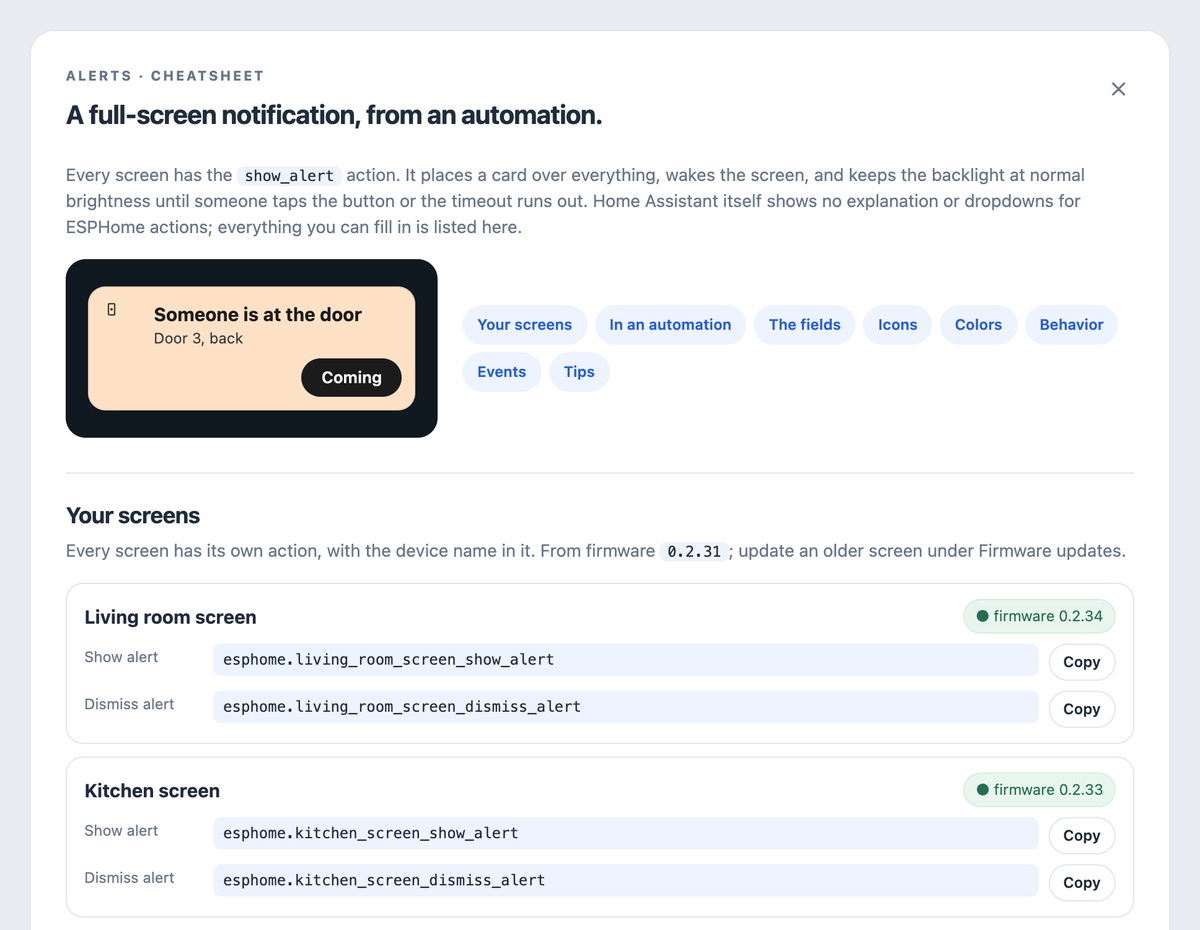
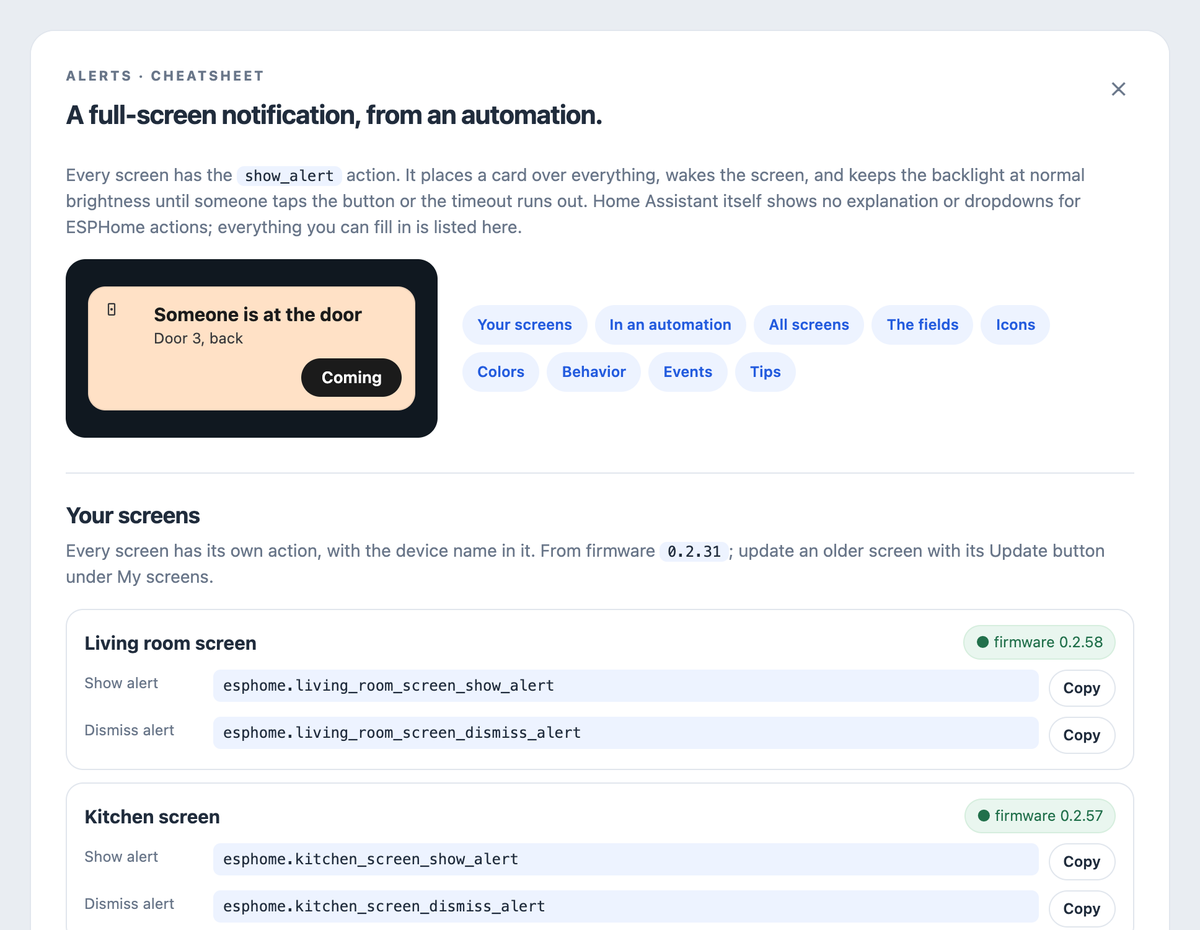
Show the settings on the screen, tap actions and Override YAML in the README
The README pictures now match the released screens and ESP Screens: the light pages had the sliders
and clock from before 0.2.43, the editor showed firmware 0.2.34, and the vacuum and climate cards
carried Dutch names. New pictures show the settings page on the screen with Dark mode, the Screen
settings cards, Perform action in the tile settings and Override YAML; the full reference gets the
same and short notes on tap actions, Home Assistant's words and icons, and Override YAML.

Rendered from the host firmware and the real add-on on the demo home, like the earlier pictures.

diff --git a/README_EXTENDED.md b/README_EXTENDED.md
@@ -49,6 +49,15 @@ on the screen itself, and how updates work.
   − / + or a slider (numbers), previous/next (select), start/pause and
   cancel (timer), and a single button for scenes, scripts, and buttons. Configurable
   per tile; **None** keeps the regular card.
+- **On tap** (app 0.2.67 / firmware 0.2.58): **Automatic**, **Open control**, **View only**,
+  **On / off** for everything Home Assistant can toggle, covers included, or **Perform action**:
+  any action Home Assistant has for the tile's entity, under Home Assistant's own names and with
+  its fields, such as Set cover position at 50 %. Holding the tile still opens its card, and the
+  tile settings only offer what Home Assistant supports for that entity.
+- **Home Assistant's words and icons** (app 0.2.67 / firmware 0.2.58): a blind says Open or
+  Closing, a speaker Playing and a door Open or Closed, a sensor shows the decimals Home Assistant
+  shows, and a tile without an icon of its own gets the one Home Assistant shows, following its
+  state. A light or binary sensor that is off turns grey (firmware 0.2.53+).
 - **Weather card** with current weather, the coming hours and days including chance of
   rain or millimeters; **climate card** with an on/off button, mode, fan, and swing settings.
   The target temperature sits big between − / + keys with one row of mode keys below; the
@@ -92,6 +101,9 @@ on the screen itself, and how updates work.
   orientation and its own calibration.
 - **Inspector:** check entities, status, and configuration in ESP Screens.
   Action feedback shows that a command is on its way.
+- **Override YAML per screen** (app 0.2.61): your own ESPHome YAML for one screen, such as another
+  display controller, kept through updates. See
+  [Updates and keeping your settings](#updates-and-keeping-your-settings).
 
 <p align="center">
   <img src="docs/images/guition-tiles-controls.png" width="32%" alt="Double-width tiles with direct control: heating mode keys with heat selected, previous, pause and next for the Sonos, and a ceiling fan's speed slider">
@@ -292,10 +304,10 @@ value. Click **Save & send to screen** to apply the changes.
 After the first supporting firmware update, this requires no new flash.
 
 <p align="center">
-  <img src="docs/images/editor-tile-settings.png" width="36%" alt="Tile settings: name, icon, display, width, direct control, tap action and pastel background">
-  <img src="docs/images/guition-controls.png" width="60%" alt="The result on the screen: a double-width Heating tile with temperature − and +">
+  <img src="docs/images/editor-tile-settings.png" width="39%" alt="Tile settings of the curtains: double-width with open, stop and close on the tile, and on tap Perform action with Set cover position at 50 %">
+  <img src="docs/images/guition-page-3.png" width="57%" alt="The result on the screen: the double-width Curtains tile with open, stop and close, above a kitchen timer, a scene and the sun path">
 </p>
-<p align="center"><sub>The settings of the Heating tile, and that tile on the screen: double-width with temperature − / +.</sub></p>
+<p align="center"><sub>The settings of the Curtains tile, and that tile on the screen: open, stop and close on the tile, and a tap on its name sets the curtains to 50 %.</sub></p>
 
 A color is a fixed choice for that tile: it stays red, for example,
 even when you run the all-off script. The entity status and action feedback
@@ -351,10 +363,20 @@ Home Assistant, `esphome.<screen>_open_settings` opens it too (`page` 0 menu, 1 
 | Screen | 12/24-hour clock, back to page 1 by itself and after how long, also on standby, swiping between pages, rotation (boards that turn) |
 | This screen | Name, IP address, firmware version, Home Assistant connected, Restart |
 
+<p align="center">
+  <img src="docs/images/guition-settings-menu.png" width="32%" alt="The settings menu on the Guition: Brightness, Night, Screen and This screen">
+  <img src="docs/images/guition-settings.png" width="32%" alt="The Brightness page: the brightness with minus and plus, Dark mode off, Auto standby on, standby after 10 minutes and the standby brightness">
+  <img src="docs/images/guition-settings-night.png" width="32%" alt="The Night page: Night mode on, starting at 22:00 and ending at 07:00, and the night brightness">
+</p>
+
 Tap a toggle to flip it, `-` and `+` to change a number or a time — hold them and a time walks
 whole hours — and tap a chip like the clock to cycle it. Every change is saved on the screen,
 takes effect at once, and appears in ESP Screens within a second, so both sides always show
 the same value. The **Screen settings** cards in ESP Screens have the same rows.
+
+<p align="center">
+  <img src="docs/images/editor-screen-settings.png" width="98%" alt="Screen settings in ESP Screens: Brightness with Dark mode and standby, Night with its hours and brightness, and Screen with the clock, back to page 1, swiping and the rotation">
+</p>
 
 **In Home Assistant** (firmware 0.2.49+), every setting is an entity on the screen's device, under
 *Configuration*: `number.<screen>_normal_brightness`, `switch.<screen>_night_mode`,
@@ -371,6 +393,7 @@ and setting a value the screen already has costs nothing. The full list is in
 | Screen settings | Change them in ESP Screens (they apply at once), on the screen, or on their entities in Home Assistant |
 | New version of the management page | Update ESP Screen Manager in the HA App store |
 | New feature on the physical screen | The **Update** button on the screen (badge *Update x.y.z*), or **Update automatically every night** under Settings |
+| Your own YAML for one screen | **Override YAML** in ESP Screens; kept through updates (app 0.2.61) |
 
 Every app version belongs to one firmware version. After an app update, the list
 shows per screen whether newer firmware is available. **Update** builds that screen's own profile
@@ -385,6 +408,17 @@ Tile layouts and options live in the app's persistent data. CYD calibration and
 screen preferences stay stored on the device. Updates don't replace this
 user data. Do still make normal Home Assistant backups and keep your
 device profiles; removing an app or wiping flash memory is not an update.
+
+**Your own YAML for one screen (app 0.2.61).** **Override YAML** in ESP Screens edits a small
+`<screen>.local.yaml` beside the screen's profile, for hardware-specific changes such as another
+display controller. It is loaded after the shared board package and stays in place when the app or
+the firmware package updates. The screen's name, Wi-Fi, API, OTA, packages, external components and
+captive portal stay managed and are refused there. **Save & check** runs ESPHome's full validation
+of the complete profile, and a build never starts from an invalid one.
+
+<p align="center">
+  <img src="docs/images/editor-override-yaml.png" width="60%" alt="Override YAML for the living room screen: a small file of its own, loaded after the shared package, here with the example that changes the display controller">
+</p>
 
 **Efficient, even with many screens (0.2.39 / firmware 0.2.33).** The app sends a
 screen only the tile that changed, as a single action

diff --git a/README.md b/README.md
@@ -14,11 +14,13 @@ lights, the heating or the vacuum.
 **What.** Firmware for two affordable panels, the 2.8-inch CYD and the 4-inch Guition, with up to
 twenty tiles over four pages: lights, climate, blinds and curtains, the vacuum, media, the weather,
 history graphs, clocks and timers. An automation can put an alert on every screen when someone rings
-the bell, and a Guition shows who is there with the doorbell camera's picture.
+the bell, and a Guition shows who is there with the doorbell camera's picture. A tap can run any
+action Home Assistant has for a tile, and Dark mode suits a screen beside the bed.
 
 **How.** ESP Screen Manager is an app inside Home Assistant. It flashes a new screen over USB, updates
 it over Wi-Fi and sends it your tiles. Changing a screen is pick, drag and **Save & send to screen**:
-no reflash, no YAML to write, no blueprint, MQTT or token.
+no reflash, no YAML to write, no blueprint, MQTT or token. Brightness, night hours and Dark mode can
+also be changed on the screen or by an automation, and your own YAML for one screen survives every update.
 
 **[Install it](#installing-from-home-assistant)** · [Full reference](README_EXTENDED.md) · [What's new](screen_manager/CHANGELOG.md)
 
@@ -57,6 +59,12 @@ no reflash, no YAML to write, no blueprint, MQTT or token.
   <img src="docs/images/guition-dark-page-4.png" width="32%" alt="Dark mode with pastel backgrounds: the coffee machine and the good-night script keep their colour, deeper">
 </p>
 <p align="center"><sub>Dark mode, for a screen beside the bed: the same pages, darker. It is a switch on the screen, in ESP Screens and in Home Assistant, so an automation can turn it on at bedtime.</sub></p>
+<p align="center">
+  <img src="docs/images/guition-settings-screen.png" width="32%" alt="The settings page on the Guition, Screen: the 12 or 24-hour clock, back to page 1 by itself and after how long, also on standby, swiping between pages and the rotation">
+  <img src="docs/images/guition-settings.png" width="32%" alt="The settings page on the Guition, Brightness: the brightness with minus and plus, Dark mode off, Auto standby on, standby after 10 minutes and the standby brightness">
+  <img src="docs/images/guition-dark-settings.png" width="32%" alt="The same Brightness page right after turning Dark mode on: a black page with graphite rows and soft white text">
+</p>
+<p align="center"><sub>Settings on the screen itself: hold the top bar. The same brightness, Dark mode, standby, night hours, clock and rotation as in ESP Screens, and every one of them is an entity in Home Assistant.</sub></p>
 
 ## Managed from Home Assistant
 
@@ -65,15 +73,23 @@ no reflash, no YAML to write, no blueprint, MQTT or token.
 </p>
 <p align="center"><sub>ESP Screens, a page in Home Assistant: every screen on the left, its top bar and tiles on the right.</sub></p>
 <p align="center">
-  <img src="docs/images/editor-tiles.png" width="59%" alt="Choosing tiles: every page in the screen preview, next to the entity picker with filters">
-  <img src="docs/images/editor-tile-settings.png" width="37%" alt="Tile settings: name, icon, display, width, direct control, tap action and pastel background">
+  <img src="docs/images/editor-tiles.png" width="63%" alt="Choosing tiles: every page in the screen preview, next to the entity picker with filters">
+  <img src="docs/images/editor-tile-settings.png" width="33%" alt="Tile settings of the curtains: double-width with open, stop and close on the tile, and on tap Perform action with Set cover position at 50 %">
 </p>
-<p align="center"><sub>Search your home, drop a tile on the preview, tap it for its name, width, control and color. Save, and the screen has it.</sub></p>
+<p align="center"><sub>Search your home, drop a tile on the preview, tap it for its name, width, control and color, and for what a tap does: open its card, switch it, or run any action Home Assistant has for it, such as the curtains to 50 %. Save, and the screen has it.</sub></p>
 <p align="center">
   <img src="docs/images/editor-top-bar.png" width="31%" alt="Add to the top bar: the time, an analog clock, the date and suggestions from your own home">
   <img src="docs/images/editor-settings.png" width="65%" alt="Settings in ESP Screens: New screen and Firmware & USB, the firmware updates, the Alerts cheatsheet, and the Claude skill">
 </p>
 <p align="center"><sub>A top bar built from your own home, firmware updates over Wi-Fi (every night if you like), and a skill so Claude can rearrange your screens.</sub></p>
+<p align="center">
+  <img src="docs/images/editor-screen-settings.png" width="98%" alt="Screen settings in ESP Screens: Brightness with Dark mode and standby, Night with its hours and brightness, and Screen with the clock, back to page 1, swiping and the rotation">
+</p>
+<p align="center"><sub>Screen settings apply at once, and a change made on the screen or by an automation shows up here too.</sub></p>
+<p align="center">
+  <img src="docs/images/editor-override-yaml.png" width="50%" alt="Override YAML for the living room screen: a small file of its own, loaded after the shared package, here with the example that changes the display controller">
+</p>
+<p align="center"><sub>Other hardware, such as a different display controller? Every screen has an Override YAML of its own, checked by ESPHome before a build and kept through every update.</sub></p>
 
 ## Alerts
 
